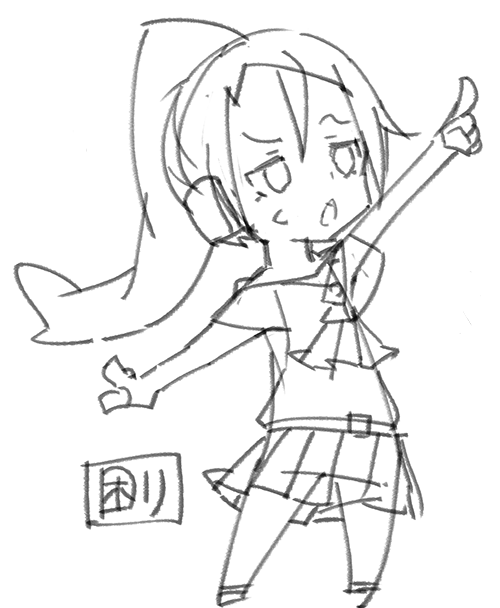
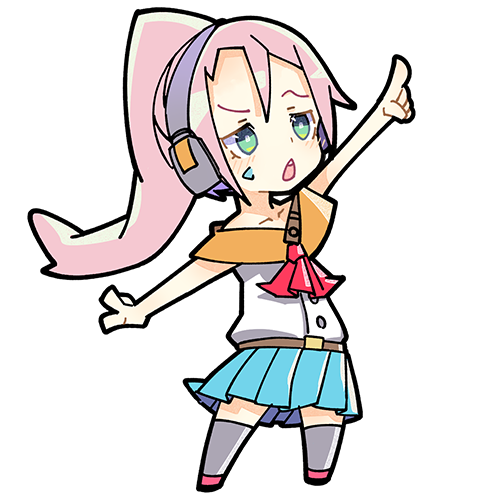
指差しイラストを本番向けに差し替え

diff --git a/static/css/theme-mine.css b/static/css/theme-mine.css
@@ -122,7 +122,7 @@ img[src$='#floatleft']
 
 .box
 {
-    width: 160px;
+    width: 240px;
 }
 .img-right {
     margin-left: auto;
